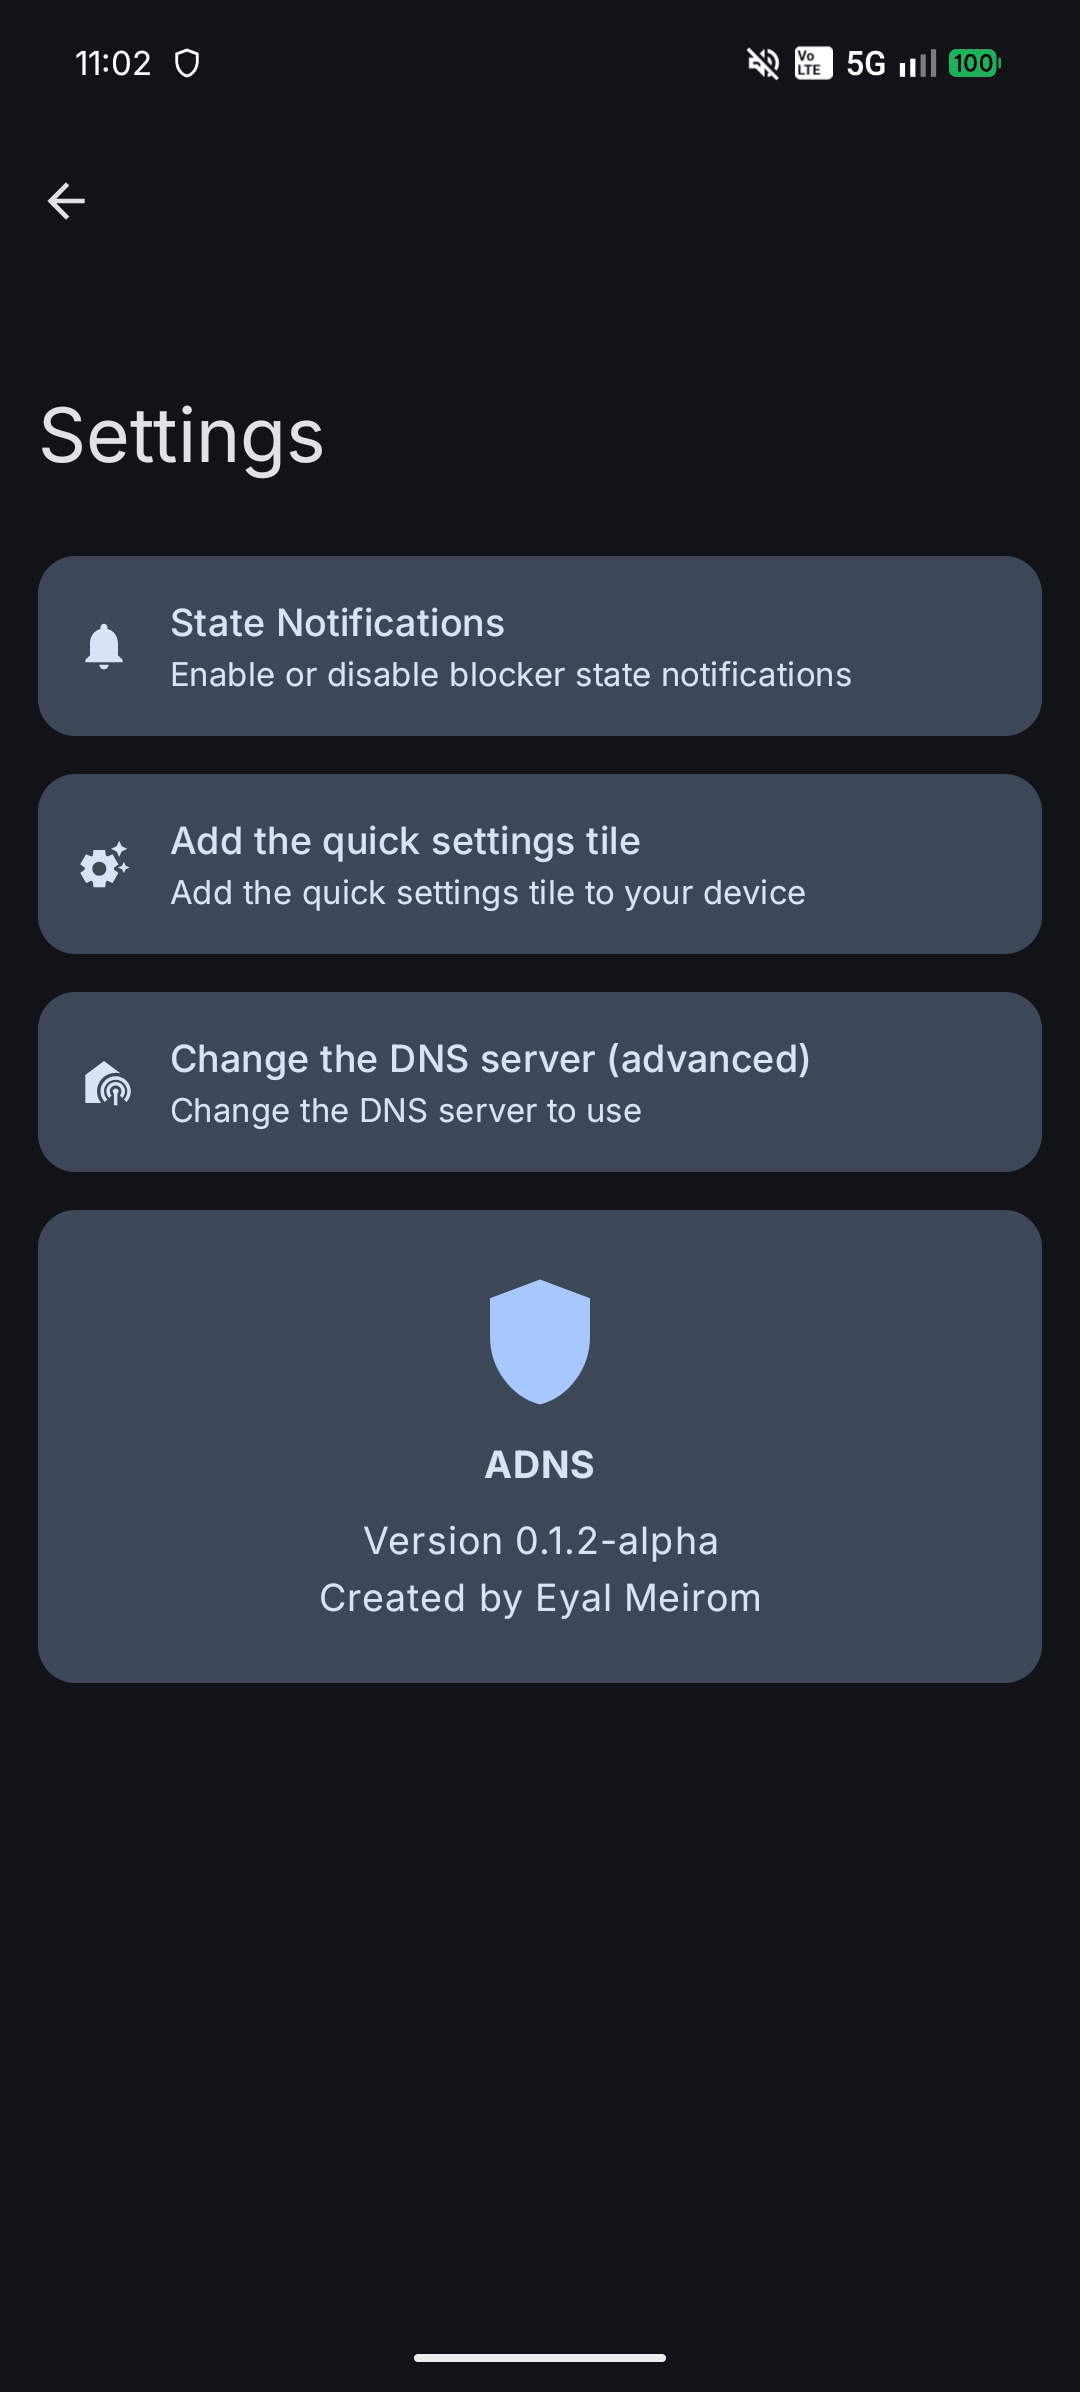
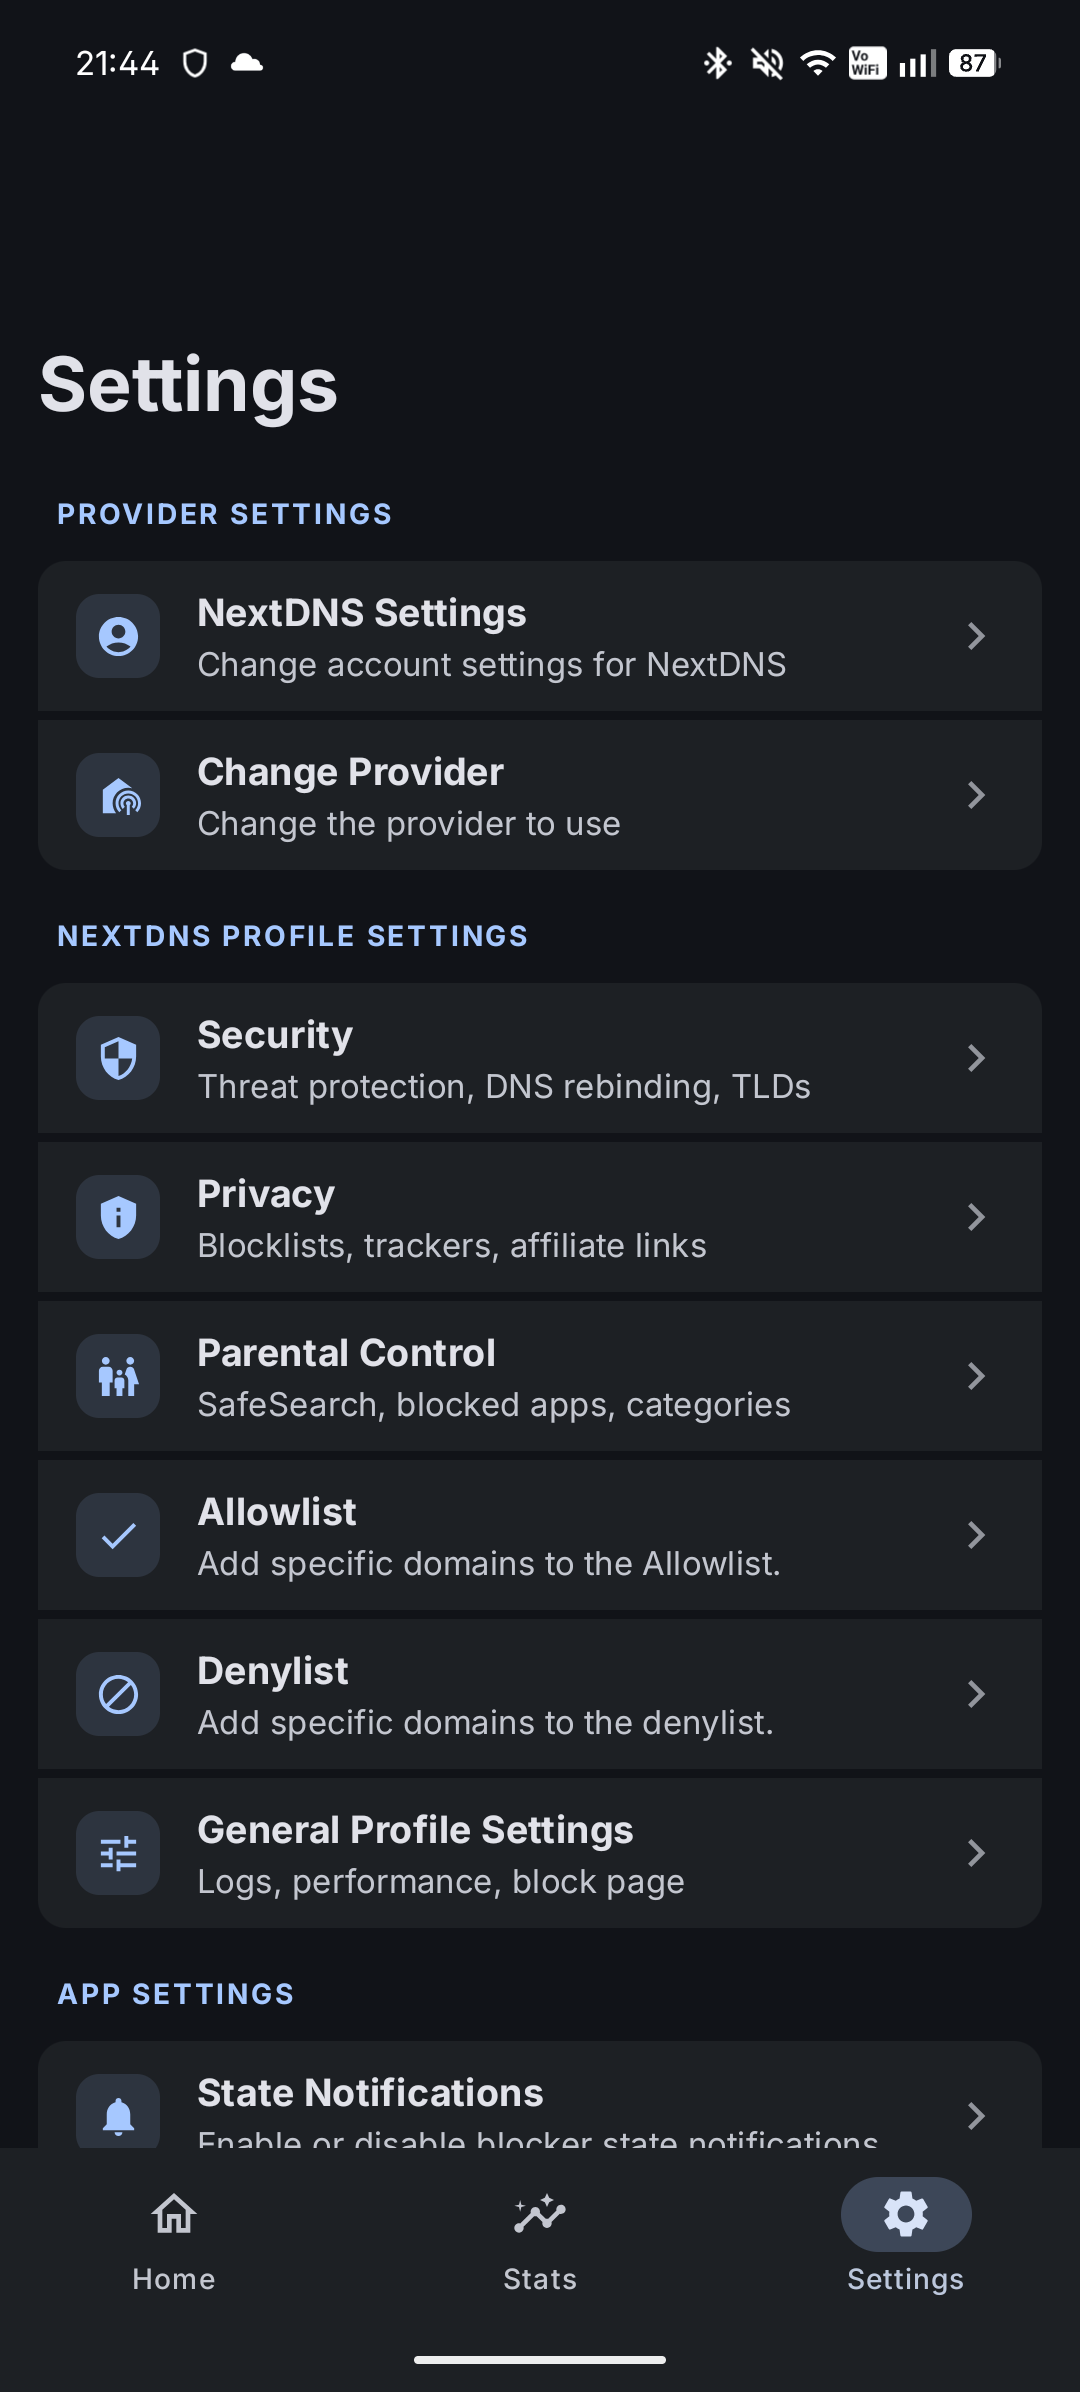
bump to 2.0.0-beta1, update metadata

diff --git a/readme.md b/readme.md
@@ -1,23 +1,20 @@
 # ADNS
 
-![Version](https://img.shields.io/github/v/release/eyalm2000/adns?label=Version)
-![IzzyOnDroid downloads](https://img.shields.io/badge/dynamic/json?url=https://dlstats.izzyondroid.org/iod-stats-collector/stats/basic/yearly/rolling.json&query=$.[%27com.eyalm.adns%27]&label=IzzyOnDroid%20downloads)
-![GitHub downloads](https://img.shields.io/github/downloads/eyalm2000/adns/total?label=GitHub%20downloads&color=blue)
+ADNS is a lightweight DNS-based ad blocker for Android. No VPN, no background services, no battery drain, no hassle. NextDNS integration is built in for a seamless experience.
 
-ADNS is a lightweight DNS-based ad blocker for Android. No VPN, no background services, no battery drain, no hassle.
-
-Download it from [GitHub Releases](https://github.com/eyalm2000/adns/releases) or [IzzyOnDroid](https://apt.izzysoft.de/fdroid/index/apk/com.eyalm.adns).
+Download it from [GitHub Releases](https://github.com/eyalm2000/adns/releases).
 
 ## Features
 
 Android makes DNS controls hard to find and slow to toggle. ADNS makes it fast and accessible.
 
 - Toggle DNS on/off with a single tap
-- Use your own DNS server
+- Use your NextDNS account and edit its settings directly within the app,
+- or use public servers like AdGuard, Cloudflare, or any other hostname
 - Quick Settings tile for instant access
 - State notification for at-a-glance status
   
-Beautifully crafted with Material You and Jetpack Compose.
+Beautifully crafted with Material 3 Expressive and Jetpack Compose.
 
 ## Activation
 
@@ -31,6 +28,7 @@ You can grant access using:
 <br>
 <br>
 <p align="center">
-  <img src="assets/homescreen.png" alt="ADNS main screen" width="33%">
-  <img src="assets/settings.png" alt="ADNS settings screen" width="33%">
+    <img src="fastlane\metadata\android\en-US\images\phoneScreenshots\3.png" alt="ADNS main screen" width="33%">
+    <img src="fastlane\metadata\android\en-US\images\phoneScreenshots\2.png" alt="ADNS settings screen" width="33%">
+    <img src="fastlane\metadata\android\en-US\images\phoneScreenshots\1.png" alt="ADNS settings screen" width="33%">
 </p>